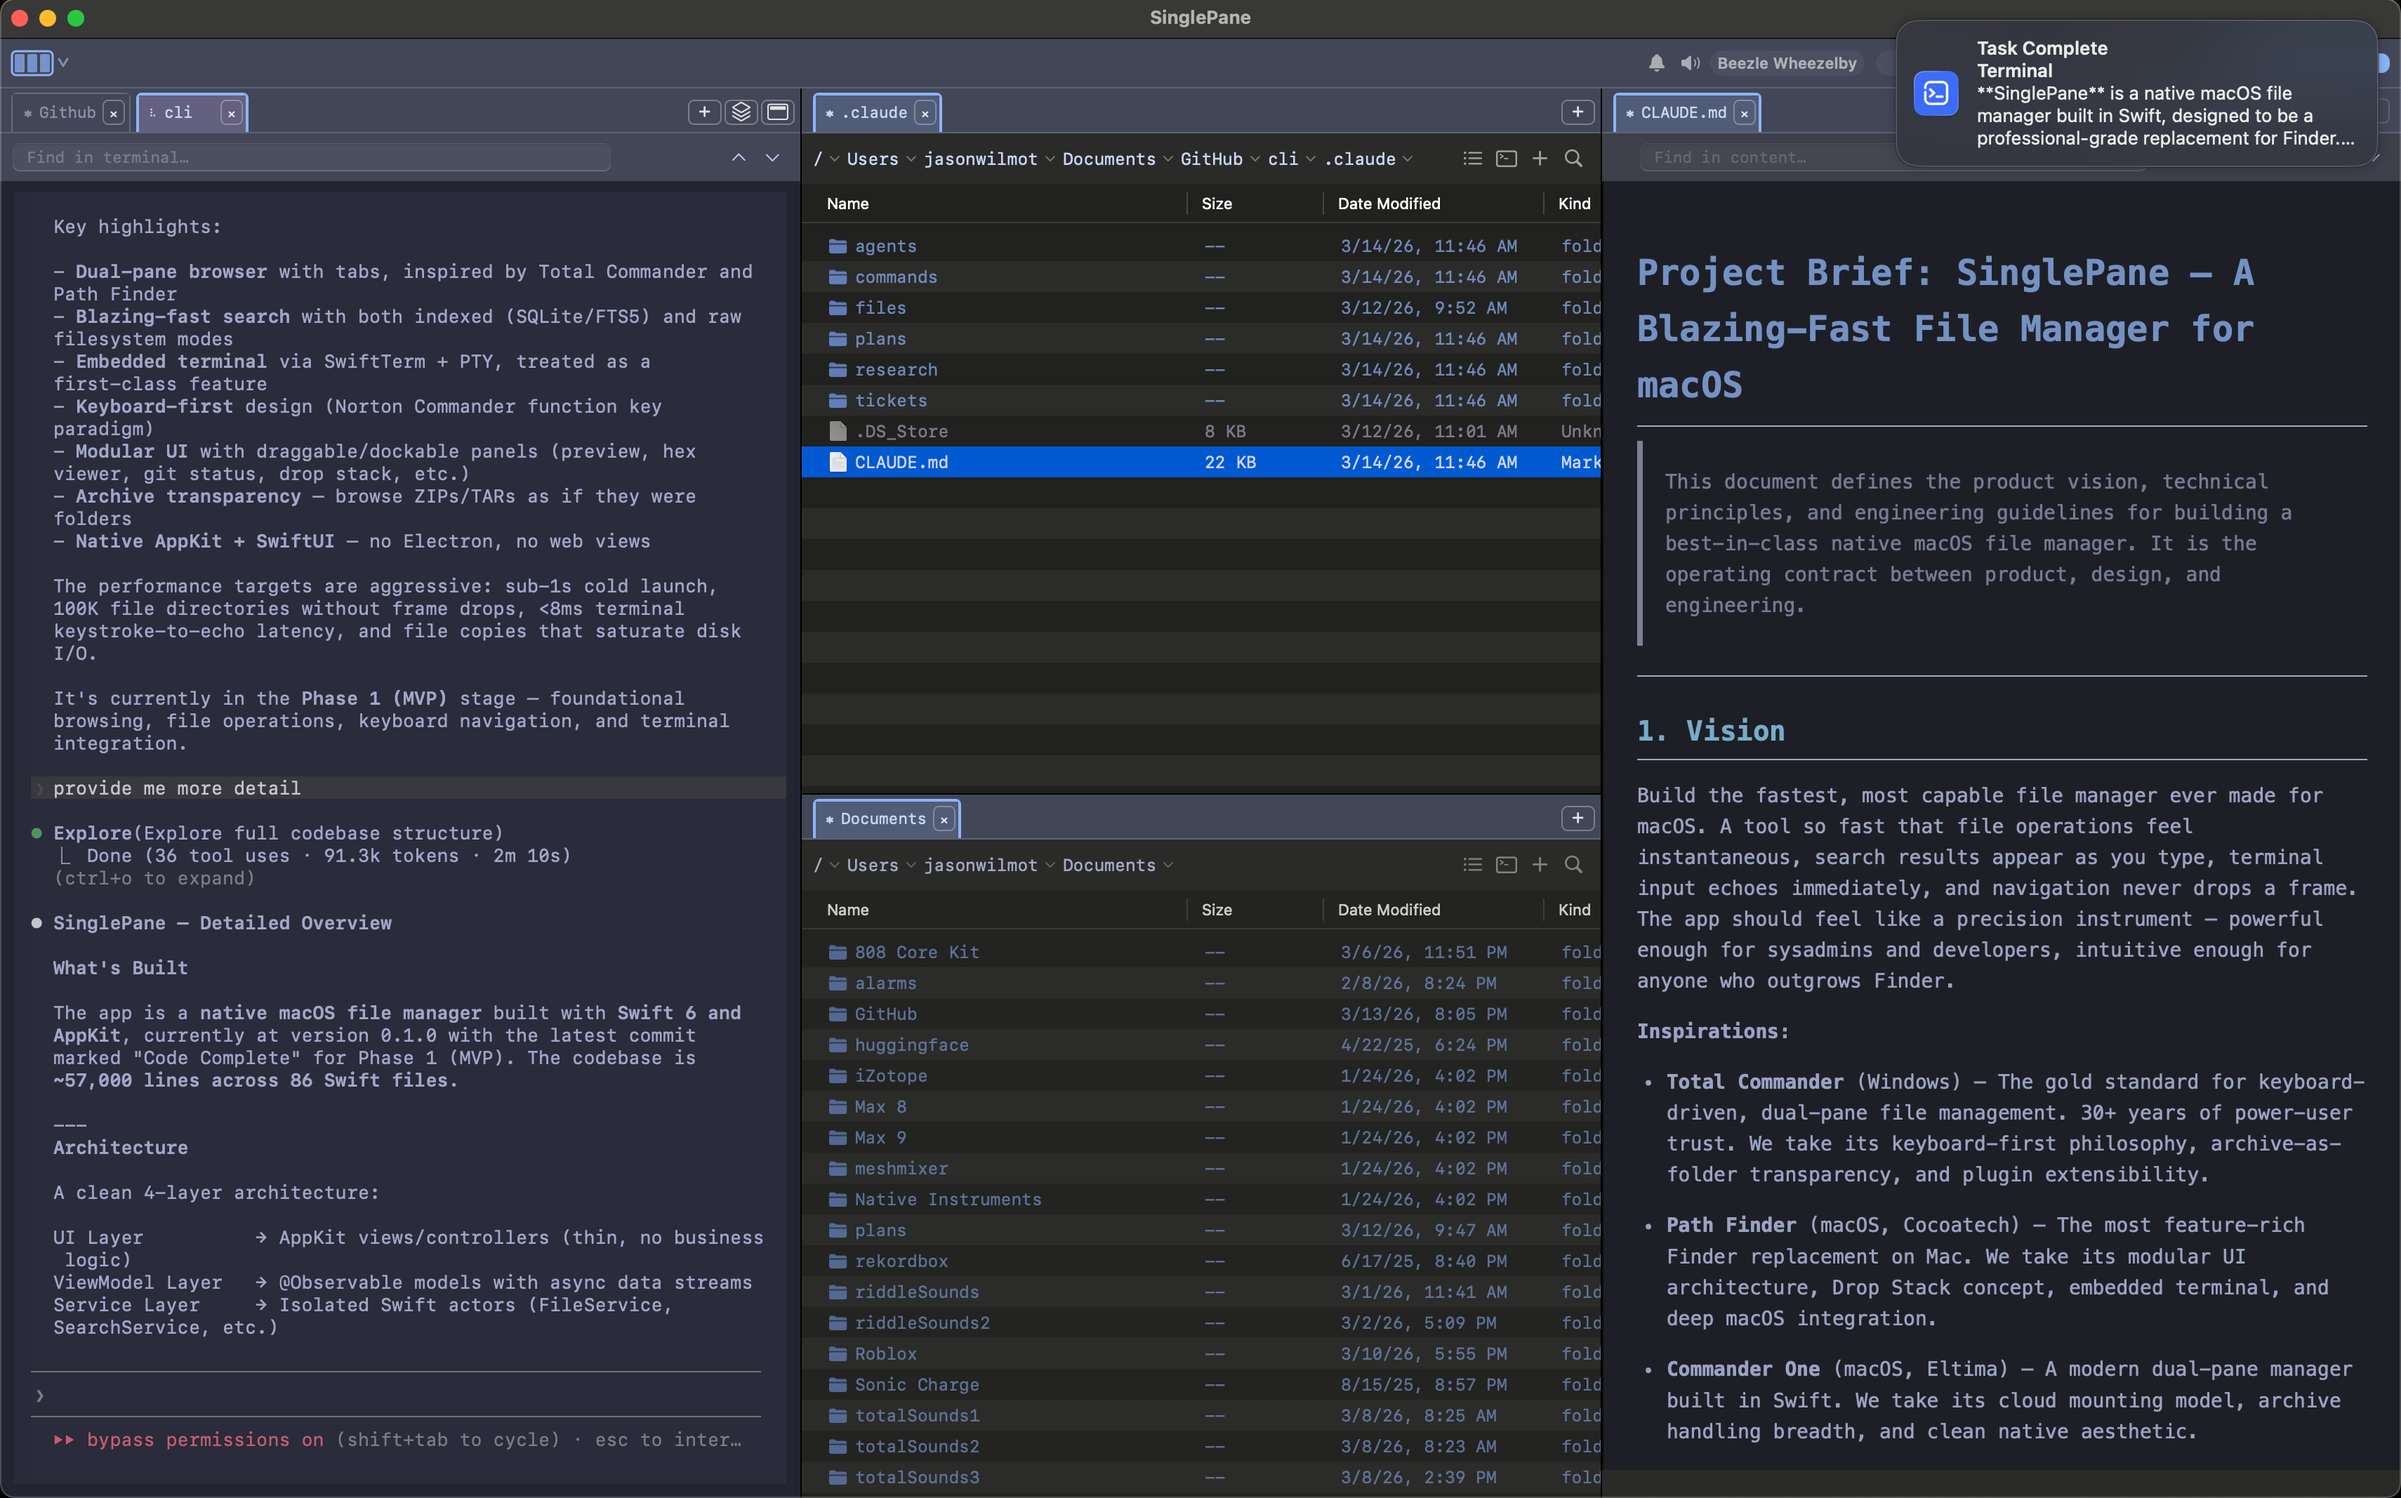
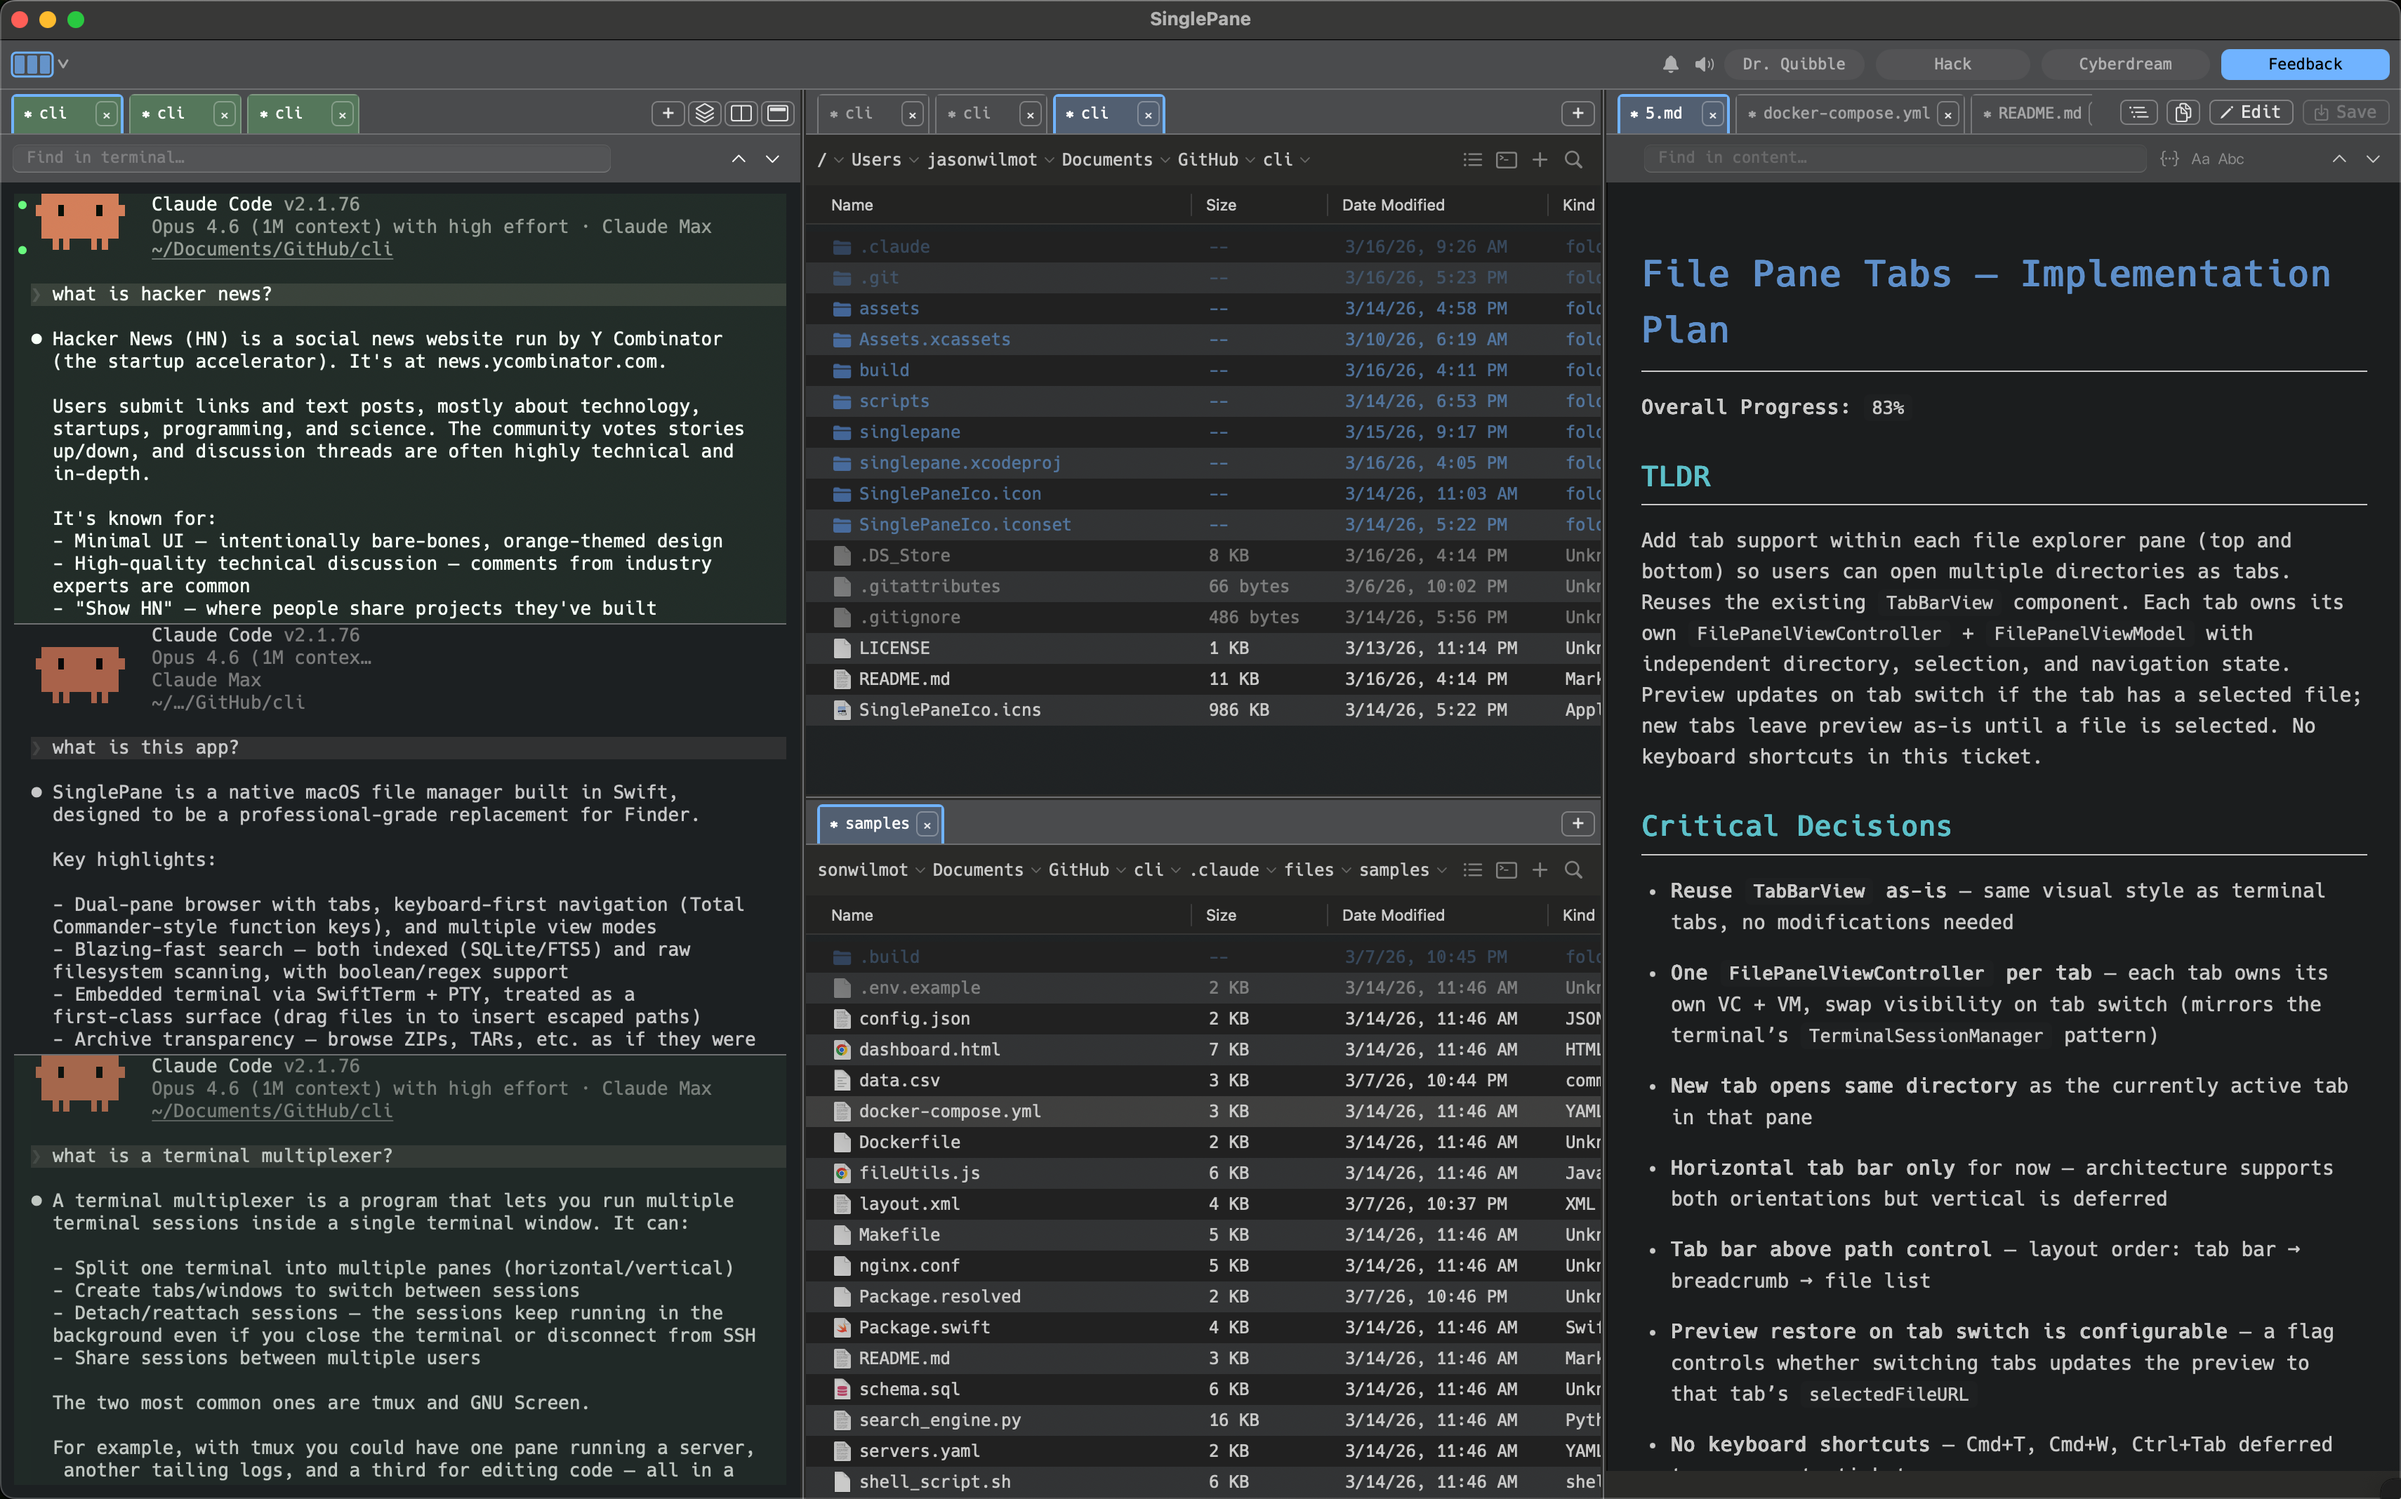
screenshot

diff --git a/singlepane/UI/Preview/MarkdownPreviewViewController.swift b/singlepane/UI/Preview/MarkdownPreviewViewController.swift
@@ -616,7 +616,7 @@ final class MarkdownPreviewViewController: NSViewController {
                 line-height: 1.6;
                 color: #\(fg);
                 background: #\(bg);
-                padding: 16px 24px;
+                padding: 8px 24px;
                 max-width: 800px;
                 margin: 0 auto;
             }
